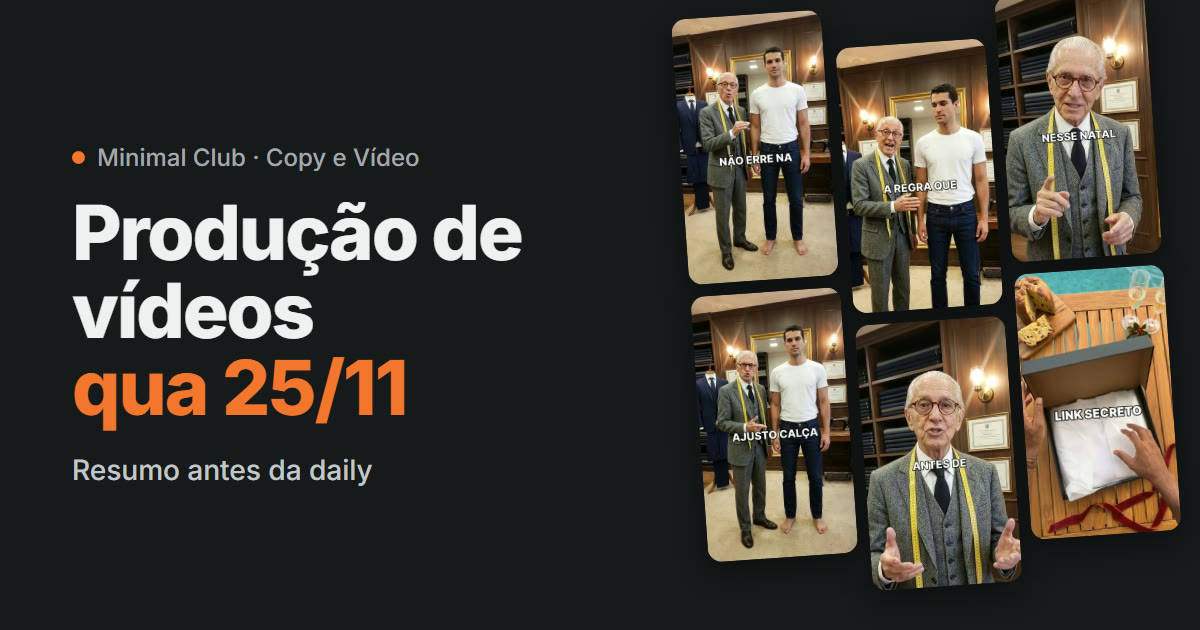
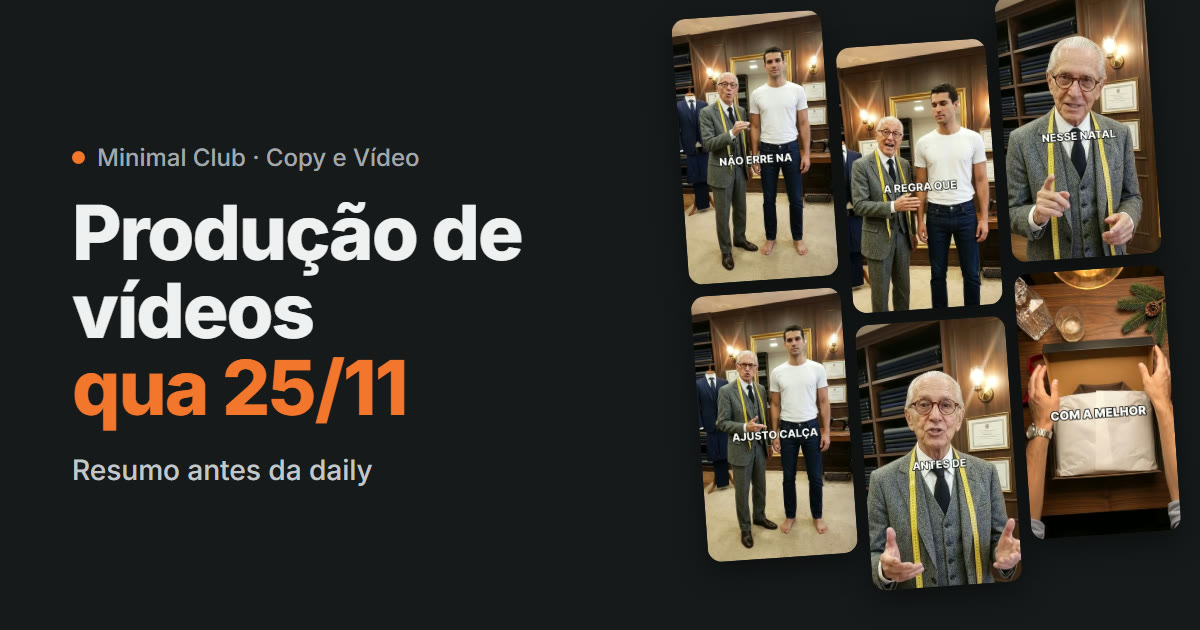
Relatório de produção 2026-11-25 13h37

Changed region(s): [[0.8325, 0.4222, 0.9867, 0.8746]]

diff --git a/2026-11-25/index.html b/2026-11-25/index.html
@@ -11,8 +11,8 @@
 <meta property="og:title" content="Produção de vídeos · qua 25/11">
 <meta property="og:description" content="Resumo antes da daily · o que foi entregue, o que está em edição e o que está em revisão.">
 <meta property="og:url" content="https://marconiteles.github.io/minimal-producao/2026-11-25/">
-<meta property="og:image" content="https://marconiteles.github.io/minimal-producao/2026-11-25/og.jpg?v=1795624425196">
-<meta property="og:image:secure_url" content="https://marconiteles.github.io/minimal-producao/2026-11-25/og.jpg?v=1795624425196">
+<meta property="og:image" content="https://marconiteles.github.io/minimal-producao/2026-11-25/og.jpg?v=1795624657136">
+<meta property="og:image:secure_url" content="https://marconiteles.github.io/minimal-producao/2026-11-25/og.jpg?v=1795624657136">
 <meta property="og:image:type" content="image/jpeg">
 <meta property="og:image:width" content="1200">
 <meta property="og:image:height" content="630">
@@ -138,7 +138,7 @@ footer{margin-top:var(--sp6);padding-top:var(--sp3);border-top:1px solid var(--l
 <main class="wrap">
   <div class="marca"><i></i>Minimal Club · Copy e Vídeo</div>
   <h1>Produção de vídeos <span class="data">qua 25/11</span></h1>
-  <p class="sub">Situação às 13h33 · desde a daily de ter 24/11, 14h30 · números em vídeos</p>
+  <p class="sub">Situação às 13h37 · desde a daily de ter 24/11, 14h30 · números em vídeos</p>
   <section class="decisao" aria-labelledby="t-decisao">
   <h2 id="t-decisao">Antes da daily<span>32 vídeos em 6 revisões atrasadas · 30 vídeos em 5 edições atrasadas</span></h2>
   <div class="at-grupo g-atraso"><h3>Revisão atrasada <span>com o revisor</span></h3><ul><li><a href="#revisar-17tr6jhca8j"><span class="sinal vermelho">Atrasada</span><span class="a-quem"><b>Victor</b><small class="desde">prazo ter 24/11 · enviado qua 10h14</small></span><span class="a-titulo">Calça Jeans Minimal · Alfaiate Ensina a Regra</span><span class="a-n">5 vídeos <span aria-hidden="true" class="seta-ir">›</span></span></a></li><li><a href="#revisar-17tr6jhc6yp"><span class="sinal vermelho">Atrasada</span><span class="a-quem"><b>Pedro Alvite</b><small class="desde">prazo ter 24/11 · enviado qua 12h40</small></span><span class="a-titulo">Unboxing · Camisa Polo</span><span class="a-n">5 vídeos <span aria-hidden="true" class="seta-ir">›</span></span></a></li><li><a href="#revisar-17tr6jhc6t1"><span class="sinal vermelho">Atrasada</span><span class="a-quem"><b>Victor</b><small class="desde">prazo ter 24/11 · enviado ter 18h01</small></span><span class="a-titulo">Camiseta Minimal · Frente para a Câmera</span><span class="a-n">5 vídeos <span aria-hidden="true" class="seta-ir">›</span></span></a></li><li><a href="#revisar-17tr6jhc6dy"><span class="sinal vermelho">Atrasada</span><span class="a-quem"><b>Pedro Alvite</b><small class="desde">prazo ter 24/11 · enviado qua 13h</small></span><span class="a-titulo">IA do Carro · Camisa Polo</span><span class="a-n">2 vídeos <span aria-hidden="true" class="seta-ir">›</span></span></a></li><li><a href="#revisar-17tr6jhc6bw"><span class="sinal vermelho">Atrasada</span><span class="a-quem"><b>Pedro Alvite</b><small class="desde">prazo ter 24/11 · enviado qua 11h48</small></span><span class="a-titulo">IA no Carro · Calça Comfort</span><span class="a-n">5 vídeos <span aria-hidden="true" class="seta-ir">›</span></span></a></li><li><a href="#revisando-17tr6jhc79m"><span class="sinal vermelho">Atrasada</span><span class="a-quem"><b>Victor</b><small class="desde">prazo ter 24/11 · enviado qua 10h48</small></span><span class="a-titulo">Camiseta Minimal · Demonstração de Produto</span><span class="a-n">10 vídeos <span aria-hidden="true" class="seta-ir">›</span></span></a></li></ul></div>
@@ -288,7 +288,7 @@ footer{margin-top:var(--sp6);padding-top:var(--sp3);border-top:1px solid var(--l
 </section><section class="secao" id="fazer">
   <header><h3 class="titulo-secao">Precisa ser feito</h3><span class="total">14 vídeos (4 estimados)</span></header>
   <ul class="lista"><li class="linha tem-atraso" id="fazer-17tr6jhc79m">
-  <div class="tira" data-mais="9"><img src="thumbs/ce2bfce0a2fd132a.jpg" alt="Hook 7 + Body" loading="lazy" width="40" height="71"><img src="thumbs/58cf4e44d51e7636.jpg" alt="Hook 8 + Body" loading="lazy" width="40" height="71"><img src="thumbs/ce3d4f74a802c3f4.jpg" alt="Hook 9 + Body" loading="lazy" width="40" height="71"><img src="thumbs/2eb7be29b06df47b.jpg" alt="Hook 10 + Body" loading="lazy" width="40" height="71"><span class="mais">+6</span></div>
+  <div class="tira" data-mais="9"><img src="thumbs/3edcd355e03401f1.jpg" alt="Hook 3 + Body" loading="lazy" width="40" height="71"><img src="thumbs/78cd45a97db4c97a.jpg" alt="Hook 4 + Body" loading="lazy" width="40" height="71"><img src="thumbs/1a544643e2758c2d.jpg" alt="Hook 5 + Body" loading="lazy" width="40" height="71"><img src="thumbs/a2c70428b35e7a6a.jpg" alt="Hook 6 + Body" loading="lazy" width="40" height="71"><span class="mais">+6</span></div>
   <div class="corpo">
     <div class="estado"><span class="pill" style="--pc:#df7d7d;--pt:#17191b">AJUSTES</span><span class="tag">IA</span><span class="tag">Natal</span><span class="qtd"><b>10</b> vídeos</span></div>
     <h4><a href="https://pipeline-videos.marconi-reis.chatgpt.site/revisar/18db72f5-293c-4f67-87d6-8db38ebb4abd" target="_blank" rel="noopener noreferrer" title="Abrir a revisão de Camiseta Minimal · Demonstração de Produto">Camiseta Minimal · Demonstração de Produto<span class="ext" aria-hidden="true">↗</span></a></h4>
@@ -357,7 +357,7 @@ footer{margin-top:var(--sp6);padding-top:var(--sp3);border-top:1px solid var(--l
   </div>
 </li>
 <li class="linha" id="revisado-17tr6jhc79m">
-  <div class="tira cartao-status" style="--pc:#df7d7d;--pt:#17191b"><span>Camiseta Minimal · Demonstração de Produto</span></div>
+  <div class="tira" data-mais="0"><img src="thumbs/78cd45a97db4c97a.jpg" alt="Hook 4 + Body" loading="lazy" width="40" height="71"></div>
   <div class="corpo">
     <div class="estado"><span class="pill" style="--pc:#df7d7d;--pt:#17191b">AJUSTES</span><span class="tag">IA</span><span class="tag">Natal</span><span class="qtd"><b>1</b> vídeo</span></div>
     <h4><a href="https://pipeline-videos.marconi-reis.chatgpt.site/revisar/18db72f5-293c-4f67-87d6-8db38ebb4abd" target="_blank" rel="noopener noreferrer" title="Abrir a revisão de Camiseta Minimal · Demonstração de Produto">Camiseta Minimal · Demonstração de Produto<span class="ext" aria-hidden="true">↗</span></a></h4>
@@ -458,7 +458,7 @@ footer{margin-top:var(--sp6);padding-top:var(--sp3);border-top:1px solid var(--l
 </section><section class="secao" id="revisando">
   <header><h3 class="titulo-secao">Sendo revisado</h3><span class="total">10 vídeos</span></header>
   <ul class="lista"><li class="linha tem-atraso" id="revisando-17tr6jhc79m">
-  <div class="tira" data-mais="9"><img src="thumbs/ce2bfce0a2fd132a.jpg" alt="Hook 7 + Body" loading="lazy" width="40" height="71"><img src="thumbs/58cf4e44d51e7636.jpg" alt="Hook 8 + Body" loading="lazy" width="40" height="71"><img src="thumbs/ce3d4f74a802c3f4.jpg" alt="Hook 9 + Body" loading="lazy" width="40" height="71"><img src="thumbs/2eb7be29b06df47b.jpg" alt="Hook 10 + Body" loading="lazy" width="40" height="71"><span class="mais">+6</span></div>
+  <div class="tira" data-mais="9"><img src="thumbs/3edcd355e03401f1.jpg" alt="Hook 3 + Body" loading="lazy" width="40" height="71"><img src="thumbs/78cd45a97db4c97a.jpg" alt="Hook 4 + Body" loading="lazy" width="40" height="71"><img src="thumbs/1a544643e2758c2d.jpg" alt="Hook 5 + Body" loading="lazy" width="40" height="71"><img src="thumbs/a2c70428b35e7a6a.jpg" alt="Hook 6 + Body" loading="lazy" width="40" height="71"><span class="mais">+6</span></div>
   <div class="corpo">
     <div class="estado"><span class="pill" style="--pc:#df7d7d;--pt:#17191b">AJUSTES</span><span class="tag">IA</span><span class="tag">Natal</span><span class="qtd"><b>10</b> vídeos</span></div>
     <h4><a href="https://pipeline-videos.marconi-reis.chatgpt.site/revisar/18db72f5-293c-4f67-87d6-8db38ebb4abd" target="_blank" rel="noopener noreferrer" title="Abrir a revisão de Camiseta Minimal · Demonstração de Produto">Camiseta Minimal · Demonstração de Produto<span class="ext" aria-hidden="true">↗</span></a></h4>
@@ -482,7 +482,7 @@ footer{margin-top:var(--sp6);padding-top:var(--sp3);border-top:1px solid var(--l
   </div>
 </li>
 <li class="linha tem-atraso" id="revisar-17tr6jhc6yp">
-  <div class="tira" data-mais="4"><img src="thumbs/582d3cf42623e6e0.jpg" alt="Hook 3 + Body" loading="lazy" width="40" height="71"><img src="thumbs/fc63f5ff965aa664.jpg" alt="V4 · Pai e Filho (Polo Azul)" loading="lazy" width="40" height="71"><span class="mais">+3</span></div>
+  <div class="tira" data-mais="4"><img src="thumbs/7b59c1a95011dfdf.jpg" alt="Hook 2 + Body" loading="lazy" width="40" height="71"><img src="thumbs/582d3cf42623e6e0.jpg" alt="Hook 3 + Body" loading="lazy" width="40" height="71"><img src="thumbs/fc63f5ff965aa664.jpg" alt="V4 · Pai e Filho (Polo Azul)" loading="lazy" width="40" height="71"><img src="thumbs/21665bd8f039e618.jpg" alt="V5 · Joguei Fora (Polo Verde)" loading="lazy" width="40" height="71"><span class="mais">+1</span></div>
   <div class="corpo">
     <div class="estado"><span class="pill" style="--pc:#9e49ab;--pt:#ffffff">REVIEW</span><span class="tag">IA</span><span class="tag">Natal</span><span class="qtd"><b>5</b> vídeos</span></div>
     <h4><a href="https://pipeline-videos.marconi-reis.chatgpt.site/revisar/42a520b8-0e73-4c14-b316-5e64c314c6f0" target="_blank" rel="noopener noreferrer" title="Abrir a revisão de Unboxing · Camisa Polo">Unboxing · Camisa Polo<span class="ext" aria-hidden="true">↗</span></a></h4>
@@ -515,7 +515,7 @@ footer{margin-top:var(--sp6);padding-top:var(--sp3);border-top:1px solid var(--l
   </div>
 </li>
 <li class="linha tem-atraso" id="revisar-17tr6jhc6bw">
-  <div class="tira" data-mais="4"><img src="thumbs/2773dbd64d3fa3de.jpg" alt="Vídeo 1 · Mônaco" loading="lazy" width="40" height="71"><img src="thumbs/c43252a56d1a56c5.jpg" alt="Vídeo 2 · Beverly Hills" loading="lazy" width="40" height="71"><span class="mais">+3</span></div>
+  <div class="tira" data-mais="4"><img src="thumbs/2773dbd64d3fa3de.jpg" alt="Vídeo 1 · Mônaco" loading="lazy" width="40" height="71"><img src="thumbs/c43252a56d1a56c5.jpg" alt="Vídeo 2 · Beverly Hills" loading="lazy" width="40" height="71"><img src="thumbs/741b82b08803c664.jpg" alt="Vídeo 5 · Miami" loading="lazy" width="40" height="71"><span class="mais">+2</span></div>
   <div class="corpo">
     <div class="estado"><span class="pill" style="--pc:#9e49ab;--pt:#ffffff">REVIEW</span><span class="tag">IA</span><span class="tag">Natal</span><span class="qtd"><b>5</b> vídeos</span></div>
     <h4><a href="https://pipeline-videos.marconi-reis.chatgpt.site/revisar/9699cd26-b371-4f72-bbaf-f65bb32809d4" target="_blank" rel="noopener noreferrer" title="Abrir a revisão de IA no Carro · Calça Comfort">IA no Carro · Calça Comfort<span class="ext" aria-hidden="true">↗</span></a></h4>
@@ -529,7 +529,7 @@ footer{margin-top:var(--sp6);padding-top:var(--sp3);border-top:1px solid var(--l
   <details class="antigos"><summary>4 tarefas paradas em review há mais de 30 dias, fora do revisor (11 vídeos, fora dos números)</summary><ul><li><span class="pill" style="--pc:#9e49ab;--pt:#ffffff">REVIEW</span> <span class="nome-antigo">Camiseta_Compre_3_Leve_4_PERFUME_REACT_LARISSA</span></li><li><span class="pill" style="--pc:#9e49ab;--pt:#ffffff">REVIEW</span> <span class="nome-antigo">Jumanji</span></li><li><span class="pill" style="--pc:#9e49ab;--pt:#ffffff">REVIEW</span> <span class="nome-antigo">Marido e Mulher</span></li><li><span class="pill" style="--pc:#9e49ab;--pt:#ffffff">REVIEW</span> <span class="nome-antigo">Gênia</span></li></ul><p>Vale arquivar ou retomar.</p></details>
   <div class="legenda"><span>Status do ClickUp:</span><span class="pill" style="--pc:#3e63dd;--pt:#ffffff">A GRAVAR</span><span class="pill" style="--pc:#a18072;--pt:#17191b">CAPTADO</span><span class="pill" style="--pc:#f8ae00;--pt:#17191b">A EDITAR</span><span class="pill" style="--pc:#e16b16;--pt:#17191b">EDITANDO</span><span class="pill" style="--pc:#9e49ab;--pt:#ffffff">REVIEW</span><span class="pill" style="--pc:#df7d7d;--pt:#17191b">AJUSTES</span><span class="pill" style="--pc:#008844;--pt:#ffffff">COMPLETE</span></div>
   <p class="nota">Números em vídeos (hooks × bodies), não em tarefas; ≈ indica quantidade estimada pelo nome da tarefa. Vídeo que já foi para revisão não conta como edição atrasada: o atraso é da revisão, com o revisor. Um lote pode estar em Revisado (rodada anterior) e em Precisa ser revisado (rodada nova).</p>
-  <footer><span>Fonte: lista Video do ClickUp e revisor Ultron · gerado 25/11 às 13h33</span><span>Nasser, Head de Marketing Virtual.</span></footer>
+  <footer><span>Fonte: lista Video do ClickUp e revisor Ultron · gerado 25/11 às 13h37</span><span>Nasser, Head de Marketing Virtual.</span></footer>
 </main>
 </body>
 </html>
